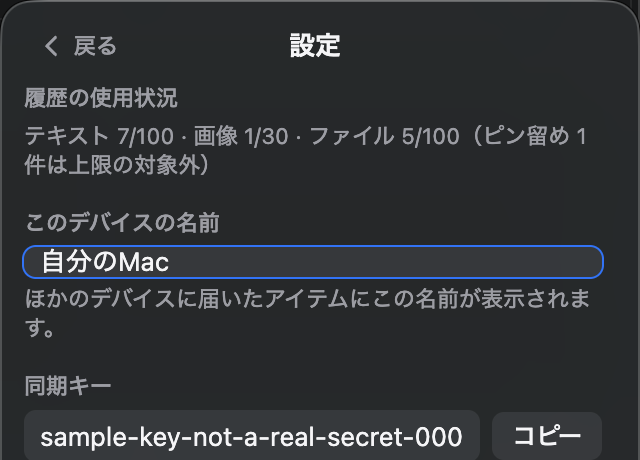
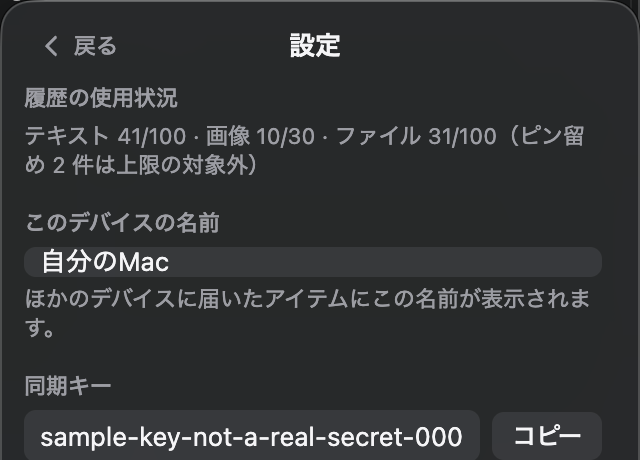
Add demo assets and update main.js for enhanced functionality
- Added various demo files including images, PDFs, and documents to the assets/demo directory.
- Updated main.js to seed new demo files for improved user experience and testing.
- Included clipboard images and text snippets to simulate realistic usage scenarios.
- Enhanced the deployment script and documentation for better clarity and usability.

Changed region(s): [[0.0312, 0.2739, 0.9375, 0.3957], [0.0312, 0.5174, 0.9375, 0.6087], [0.9375, 0.5478, 0.9688, 0.5783]]

diff --git a/main.js b/main.js
@@ -3865,6 +3865,92 @@ app.whenReady().then(() => {
           { fromDevice: '自宅iMac', fromPlatform: 'darwin', timestamp: Date.now() - 4 * DAY - 5 * HOUR },
           appNotion,
         );
+        // 設定シートの「履歴の使用状況」がスカスカに見えないよう、2週間分くらい使い込んだ
+        // ボリュームまで増量する (会社用PC / 自宅iMac / 自分のMac のファイル数はほぼ揃える)
+        seedFile('assets/demo/サーバー移行手順.txt', { timestamp: Date.now() - 7 * HOUR }, appNotion);
+        seedFile(
+          'assets/demo/サイトマップ.pdf',
+          { timestamp: Date.now() - 3 * DAY - 6 * HOUR },
+          appPowerPoint,
+        );
+        seedFile('assets/demo/デプロイスクリプト.txt', { timestamp: Date.now() - 9 * HOUR }, appTerminal);
+        seedFile(
+          'assets/demo/顧客対応マニュアル.docx',
+          { timestamp: Date.now() - 6 * DAY - 3 * HOUR },
+          appWord,
+        );
+        seedFile('assets/demo/KPIダッシュボード.png', { timestamp: Date.now() - 8 * DAY - HOUR }, appNumbers);
+        seedFile('assets/demo/アクセス権限一覧.xlsx', { timestamp: Date.now() - 10 * DAY }, appExcel);
+        seedFile(
+          'assets/demo/週次レポート_W37.pptx',
+          { timestamp: Date.now() - 13 * DAY - 4 * HOUR },
+          appPowerPoint,
+        );
+        seedFile(
+          'assets/demo/請求書_10月.pdf',
+          { fromDevice: '会社用PC', fromPlatform: 'win32', timestamp: Date.now() - DAY - 12 * HOUR },
+          appExcel,
+        );
+        seedFile(
+          'assets/demo/NDA_秘密保持契約.pdf',
+          { fromDevice: '会社用PC', fromPlatform: 'win32', timestamp: Date.now() - 5 * DAY - 5 * HOUR },
+          appWord,
+        );
+        seedFile(
+          'assets/demo/見積比較_他社.xlsx',
+          { fromDevice: '会社用PC', fromPlatform: 'win32', timestamp: Date.now() - 7 * DAY - 2 * HOUR },
+          appExcel,
+        );
+        seedFile(
+          'assets/demo/障害報告書_0912.docx',
+          { fromDevice: '会社用PC', fromPlatform: 'win32', timestamp: Date.now() - 9 * DAY - 6 * HOUR },
+          appWord,
+        );
+        seedFile(
+          'assets/demo/ロゴ_v4.png',
+          { fromDevice: '会社用PC', fromPlatform: 'win32', timestamp: Date.now() - 11 * DAY - 3 * HOUR },
+          appFigma,
+        );
+        seedFile(
+          'assets/demo/名刺デザイン案.png',
+          { fromDevice: '会社用PC', fromPlatform: 'win32', timestamp: Date.now() - 12 * DAY - HOUR },
+          appFigma,
+        );
+        seedFile(
+          'assets/demo/請求書送付リスト.xlsx',
+          { fromDevice: '会社用PC', fromPlatform: 'win32', timestamp: Date.now() - 14 * DAY },
+          appExcel,
+        );
+        seedFile(
+          'assets/demo/デザインガイドライン_v2.pdf',
+          { fromDevice: '自宅iMac', fromPlatform: 'darwin', timestamp: Date.now() - 4 * DAY - 2 * HOUR },
+          appFigma,
+        );
+        seedFile(
+          'assets/demo/テスト仕様書_決済フロー.xlsx',
+          { fromDevice: '自宅iMac', fromPlatform: 'darwin', timestamp: Date.now() - 6 * DAY - 8 * HOUR },
+          appExcel,
+        );
+        seedFile(
+          'assets/demo/契約更新のご案内.docx',
+          { fromDevice: '自宅iMac', fromPlatform: 'darwin', timestamp: Date.now() - 8 * DAY - 4 * HOUR },
+          appWord,
+        );
+        seedFile(
+          'assets/demo/プロジェクト計画書.pptx',
+          { fromDevice: '自宅iMac', fromPlatform: 'darwin', timestamp: Date.now() - 10 * DAY - 5 * HOUR },
+          appPowerPoint,
+        );
+        seedFile(
+          'assets/demo/アイコンセット.png',
+          { fromDevice: '自宅iMac', fromPlatform: 'darwin', timestamp: Date.now() - 12 * DAY - 6 * HOUR },
+          appFigma,
+        );
+        seedFile(
+          'assets/demo/顧客リスト_9月版.xlsx',
+          { fromDevice: '自宅iMac', fromPlatform: 'darwin', timestamp: Date.now() - 13 * DAY - HOUR },
+          appExcel,
+        );
         // クリップボードは普段づかいの道具なので、1〜数十分おきに次々コピーしている
         // ような密度で並べる (数時間おきにしか使っていないような不自然な間隔にしない)
         win.webContents.send('clipboard-item', {
@@ -3955,6 +4041,68 @@ app.whenReady().then(() => {
           timestamp: Date.now() - 6 * HOUR,
           sourceApp: appOutlook,
         });
+        // ここから増量分。直近数時間はまだ密に、それより前は日を追うごとに間隔を空けて
+        // 「2週間くらい使い込んでいる」ボリュームにする (設定シートの内訳がスカスカに見えないように)
+        const clip = (text, hoursAgo, device, platform, app) =>
+          win.webContents.send('clipboard-item', {
+            type: 'clipboard-text',
+            text,
+            timestamp: Date.now() - hoursAgo * HOUR,
+            fromDevice: device || undefined,
+            fromPlatform: platform || undefined,
+            sourceApp: app,
+          });
+        clip('先方より本日中に色校正の返信をいただけるとのことです', 2.2, '自宅iMac', 'darwin', appTeams);
+        clip('https://www.figma.com/file/abcd1234/EC-Renewal', 3, null, null, appChrome);
+        clip('納品物一覧: index.html, styles.css, main.js', 5, null, null, appNotion);
+        clip('住所: 東京都渋谷区渋谷1-2-3 渋谷ビル5F', 9, null, null, appNotion);
+        clip('経費精算の締め切りは毎月25日です', 25, '会社用PC', 'win32', appOutlook);
+        clip('https://docs.google.com/spreadsheets/d/xxxx/edit', 27, '会社用PC', 'win32', appChrome);
+        clip('パスワードリセットのご案内メールを送信しました', 30, null, null, appOutlook);
+        clip('本件、了解しました。明日中に対応します。', 33, '自宅iMac', 'darwin', appTeams);
+        clip('print("Hello, world")', 49, null, null, appTerminal);
+        clip('npm run build && npm run deploy', 50, null, null, appTerminal);
+        clip("SELECT * FROM orders WHERE status = 'pending';", 53, '会社用PC', 'win32', appTerminal);
+        clip('https://www.notion.so/example-team/EC-Renewal-Wiki', 56, null, null, appChrome);
+        clip('会員登録数: 1,204件（9月時点）', 73, '会社用PC', 'win32', appExcel);
+        clip('郵便番号: 150-0002', 76, null, null, appNotion);
+        clip('次回定例は10/15(水) 14:00〜', 79, '自宅iMac', 'darwin', appTeams);
+        clip('https://calendar.google.com/calendar/u/0/r/eventedit', 97, null, null, appChrome);
+        clip('サーバーのIPアドレス: 192.168.1.50', 99, '会社用PC', 'win32', appTerminal);
+        clip('本番反映は日曜の深夜に実施予定です', 102, null, null, appSlack);
+        clip('デザインの微調整、ありがとうございました！', 121, '自宅iMac', 'darwin', appSlack);
+        clip('テストユーザー: test@example.com / パスワード: Test1234!', 124, null, null, appNotion);
+        clip('見積の有効期限は発行日から30日間です', 146, '会社用PC', 'win32', appWord);
+        clip('https://github.com/example-team/ec-renewal/issues/58', 149, null, null, appChrome);
+        clip('レスポンシブ対応、スマホ表示崩れの修正完了しました', 152, null, null, appSlack);
+        clip('領収書の宛名は「株式会社Notoa」でお願いします', 169, '会社用PC', 'win32', appOutlook);
+        clip('本日の作業時間: 6.5h', 171, null, null, appNotion);
+        clip('Wi-Fiパスワード: sample-wifi-pass-2026', 174, '自宅iMac', 'darwin', appNotion);
+        clip('打ち合わせ議事録のリンクを共有します: https://notion.so/xxxx', 194, '自宅iMac', 'darwin', appTeams);
+        clip('来週の月曜は祝日のため定例をお休みします', 197, null, null, appTeams);
+        clip('決済APIのサンドボックスキー: sk_test_xxxxxxxx', 217, null, null, appTerminal);
+        clip('10月からインボイス対応の請求書フォーマットに変更します', 220, '会社用PC', 'win32', appExcel);
+        clip('https://www.google.com/maps/place/渋谷ビル', 240, null, null, appChrome);
+        // クリップ画像も同じ期間に合わせて増量 (棒グラフ・地図・エラー画面など、
+        // 実際にコピーしそうな種類をひととおり用意する)
+        const clipImage = (name, hoursAgo, device, platform, app) =>
+          win.webContents.send('clipboard-item', {
+            type: 'clipboard-image',
+            path: path.join(__dirname, 'assets/demo/' + name),
+            timestamp: Date.now() - hoursAgo * HOUR,
+            fromDevice: device || undefined,
+            fromPlatform: platform || undefined,
+            sourceApp: app,
+          });
+        clipImage('clipboard_2026-09-14_15-40-00.png', 6, '会社用PC', 'win32', appExcel);
+        clipImage('clipboard_2026-09-13_11-05-00.png', 28, null, null, appChrome);
+        clipImage('clipboard_2026-09-12_09-20-00.png', 51, '自宅iMac', 'darwin', appChrome);
+        clipImage('clipboard_2026-09-11_16-50-00.png', 74, null, null, appChrome);
+        clipImage('clipboard_2026-09-10_13-10-00.png', 100, '会社用PC', 'win32', appExcel);
+        clipImage('clipboard_2026-09-09_18-25-00.png', 122, '自宅iMac', 'darwin', appSlack);
+        clipImage('clipboard_2026-09-08_10-15-00.png', 150, null, null, appFigma);
+        clipImage('clipboard_2026-09-06_14-05-00.png', 195, '会社用PC', 'win32', appFigma);
+        clipImage('clipboard_2026-09-05_09-45-00.png', 221, null, null, appWord);
         // ピン留め・タイトル編集も紹介用スクショに含めたいので、シード直後に1件ずつ適用する。
         // アイコン取得 (sips 起動) がアプリの数だけ増えた分、固定の待ち時間だと間に合わないことが
         // あるため、setTimeout を待ってから実行する形にして「全部 send し終わった後」を保証する
@@ -3981,8 +4129,9 @@ app.whenReady().then(() => {
               const proposal = findFile('提案資料');
               if (proposal) proposal.timestamp = Date.now() - 122 * 3600000;
               // メール署名はピン留めの実例として、定型文らしいタイトルを付けて固定する
-              // (本文の部分一致だと Word 由来のクリップ等と衝突しうるため、出身アプリで判定する)
-              const signature = items.find((it) => it.kind === 'clip-text' && it.sourceApp && it.sourceApp.name === 'Outlook');
+              // (出身アプリだけでの判定は他の Outlook クリップが増えると衝突するため、
+              // 署名特有の区切り線で一意に絞る)
+              const signature = items.find((it) => it.kind === 'clip-text' && it.text && it.text.startsWith('-------------------'));
               if (signature) {
                 signature.pinned = true;
                 signature.customTitle = 'メール署名（社内向け）';
